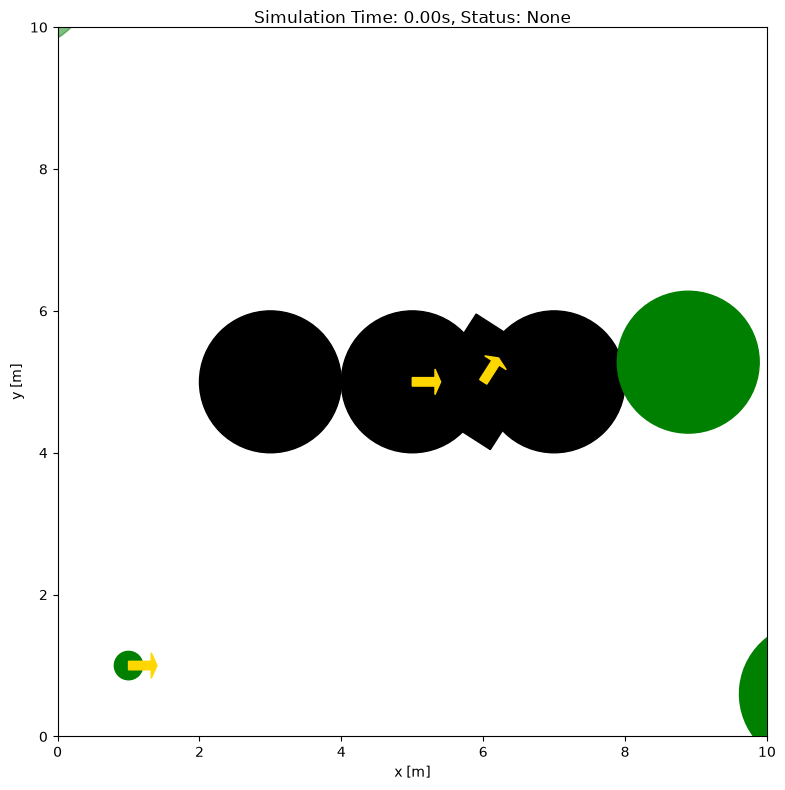
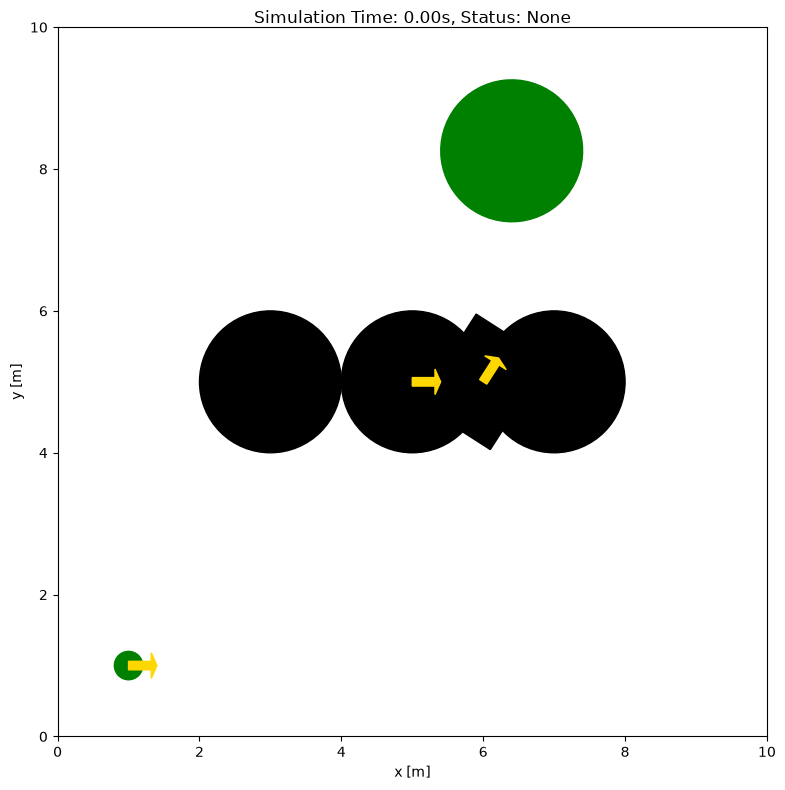
fix: Cyrus-Beck missing has_exit check caused false positives
- Add has_exit tracking to intersect_ray_convex_polygon. When the
  polygon is behind the origin, some edges may have denom>0 with
  positive t (appearing as 'entering'), but no exiting edges exist.
  The missing has_exit check caused false positives for rays going
  away from the polygon.
- Change RECT storage in grid from 4 segments back to RECT type
  with full Cyrus-Beck intersection (eliminates segment-precision
  issues at corners).

diff --git a/tests/test_dynamic_rotation.py b/tests/test_dynamic_rotation.py
@@ -1,0 +1,116 @@
+"""Test that LiDAR correctly tracks dynamically rotating obstacles.
+
+Creates a scene with a rectangular obstacle that rotates during simulation.
+The LiDAR data is compared against Shapely-calculated ground truth from
+the obstacle's actual rotated vertices, verifying alignment over many steps.
+"""
+
+import math
+import numpy as np
+import pytest
+
+try:
+    import irsim
+except ImportError:
+    irsim = None
+
+try:
+    import shapely
+    from shapely.geometry import Polygon, LineString, Point
+except ImportError:
+    shapely = None
+
+RANGE_MAX = 12.0
+N_BEAMS = 360
+
+
+def _rotation_matrix(theta):
+    c, s = math.cos(theta), math.sin(theta)
+    return np.array([[c, -s], [s, c]])
+
+
+def _rect_vertices(cx, cy, hw, hh, theta):
+    """Return 4 vertices of a rotated rect in CCW order."""
+    R = _rotation_matrix(theta)
+    corners = np.array([[hw, hh], [-hw, hh], [-hw, -hh], [hw, -hh]])
+    return (R @ corners.T).T + np.array([cx, cy])
+
+
[email redacted](irsim is None, reason="irsim not available")
[email redacted](shapely is None, reason="shapely not available")
+def test_dynamic_rotation_rect_lidar():
+    """LiDAR ray hitting a dynamically rotating rect must match Shapely."""
+    import irsim as _irsim
+
+    env = _irsim.make("test_dynamic_rotation.yaml", display=False)
+    w = env._cpp._w
+
+    # Run for many steps so the obstacle rotates significantly
+    mismatches_by_step = []
+
+    for step in range(100):
+        env.step()
+
+        lidar = env.robot.lidar
+        ox = float(lidar.lidar_origin[0, 0])
+        oy = float(lidar.lidar_origin[1, 0])
+        heading = float(lidar.lidar_origin[2, 0])
+
+        # Get obstacle state from C++
+        # There's 1 dynamic obstacle (rect)
+        if w.num_dynamic_obstacles() < 1:
+            continue
+        pose = w.get_obstacle_pose(0)
+
+        # Build Shapely rect from C++ obstacle state
+        hw, hh = 0.75, 0.4  # length/2, width/2 from YAML
+        verts = _rect_vertices(pose[0], pose[1], hw, hh, pose[2])
+        poly = Polygon(verts)
+
+        # Check LiDAR data
+        ranges = lidar.range_data
+        mismatches = 0
+        for i in range(N_BEAMS):
+            angle = lidar.angle_list[i]
+            r = ranges[i]
+
+            # Ray direction in world frame
+            world_angle = angle + heading
+            dx, dy = math.cos(world_angle), math.sin(world_angle)
+
+            ray = LineString([(ox, oy), (ox + RANGE_MAX * dx, oy + RANGE_MAX * dy)])
+            inter = ray.intersection(poly)
+
+            if inter.is_empty:
+                expected = RANGE_MAX
+            elif inter.geom_type == "Point":
+                expected = Point(ox, oy).distance(inter)
+            elif inter.geom_type == "MultiPoint":
+                expected = min(Point(ox, oy).distance(p) for p in inter.geoms)
+            else:
+                expected = RANGE_MAX
+
+            diff = abs(r - expected)
+            if diff > 0.05:
+                mismatches += 1
+
+        mismatches_by_step.append(mismatches)
+        if step < 5 or step % 20 == 0:
+            print(f"  Step {step:3d}: mismatches={mismatches:3d}/{N_BEAMS}, "
+                  f"theta={math.degrees(pose[2]):.1f}°")
+
+    total_mismatches = sum(mismatches_by_step)
+    total_beams = len(mismatches_by_step) * N_BEAMS
+    rate = total_mismatches / total_beams * 100
+
+    print(f"\n  Total over {len(mismatches_by_step)} steps: "
+          f"mismatches={total_mismatches}/{total_beams} ({rate:.2f}%)")
+
+    assert rate < 5.0, (
+        f"LiDAR vs Shapely mismatch rate {rate:.2f}% exceeds 5%"
+    )
+    env.end(0)
+
+
+if __name__ == "__main__":
+    test_dynamic_rotation_rect_lidar()

diff --git a/cpp/src/lidar.cpp b/cpp/src/lidar.cpp
@@ -49,22 +49,15 @@ void SpatialHashGrid::build(const Obstacle* obstacles, int n_obs, bool include_c
 
         } else if (obs.type == ShapeType::RECT) {
             if (include_cr) {
-                // Store as 4 segments (matching Python obj_to_c_dict behavior)
-                float c = std::cos(obs.theta), si = std::sin(obs.theta);
-                float cx = obs.center.x, cy = obs.center.y;
-                float hw = obs.half_w, hh = obs.half_h;
-                Vec2 v0{cx + hw * c - hh * si, cy + hw * si + hh * c};
-                Vec2 v1{cx - hw * c - hh * si, cy - hw * si + hh * c};
-                Vec2 v2{cx - hw * c + hh * si, cy - hw * si - hh * c};
-                Vec2 v3{cx + hw * c + hh * si, cy + hw * si - hh * c};
-                Vec2 edges[4][2] = {{v0, v1}, {v1, v2}, {v2, v3}, {v3, v0}};
-                for (int e = 0; e < 4; e++) {
-                    GridShape gs;
-                    gs.type = ShapeType::LINESTRING;
-                    gs.a = edges[e][0];
-                    gs.b = edges[e][1];
-                    shapes_.push_back(gs);
-                }
+                // Store as RECT with full shape info for Cyrus-Beck intersection
+                GridShape gs;
+                gs.type = ShapeType::RECT;
+                gs.center = obs.center;
+                gs.half_w = obs.half_w;
+                gs.half_h = obs.half_h;
+                gs.theta = obs.theta;
+                gs.aabb = obs.aabb;
+                shapes_.push_back(gs);
                 n_rect_++;
             }
             min_x = std::min(min_x, obs.aabb.min.x);

diff --git a/cpp/include/geometry.h b/cpp/include/geometry.h
@@ -259,7 +259,7 @@ inline bool intersect_ray_convex_polygon(
     bool ccw = area > 0;
 
     float t_enter = 0, t_exit = FLT_MAX;
-    bool has_enter = false;
+    bool has_enter = false, has_exit = false;
     for (int i = 0; i < n; i++) {
         const Vec2& a = verts[i];
         const Vec2& b = verts[(i + 1) % n];
@@ -272,18 +272,20 @@ inline bool intersect_ray_convex_polygon(
         float t = ao.dot({nx, ny}) / denom;
         if (std::abs(t) < 1e-10f) continue;  // ignore edge-on intersections at origin
         if (denom > 0) {
+            has_exit = true;
             if (t < t_exit) t_exit = t;
         } else {
             has_enter = true;
             if (t > t_enter) t_enter = t;
         }
     }
-    if (t_enter > t_exit) return false;
-    if (t_exit < 0) return false;
-    // If no entering edge found: origin is inside → hit at 0.
+    // Origin inside: no entering edges → hit at origin
     if (!has_enter) { t_out = 0; return true; }
-    // If all entering edges have t <= 0, the polygon is behind the origin.
-    if (t_enter <= 0) return false;
+    // No exiting edges: ray doesn't go through the polygon → miss
+    if (!has_exit) return false;
+    if (t_enter > t_exit) return false;   // enter after exit → miss
+    if (t_exit < 0) return false;          // exit before origin → miss
+    if (t_enter <= 0) return false;        // entering edges all behind → miss
     t_out = t_enter;
     return true;
 }